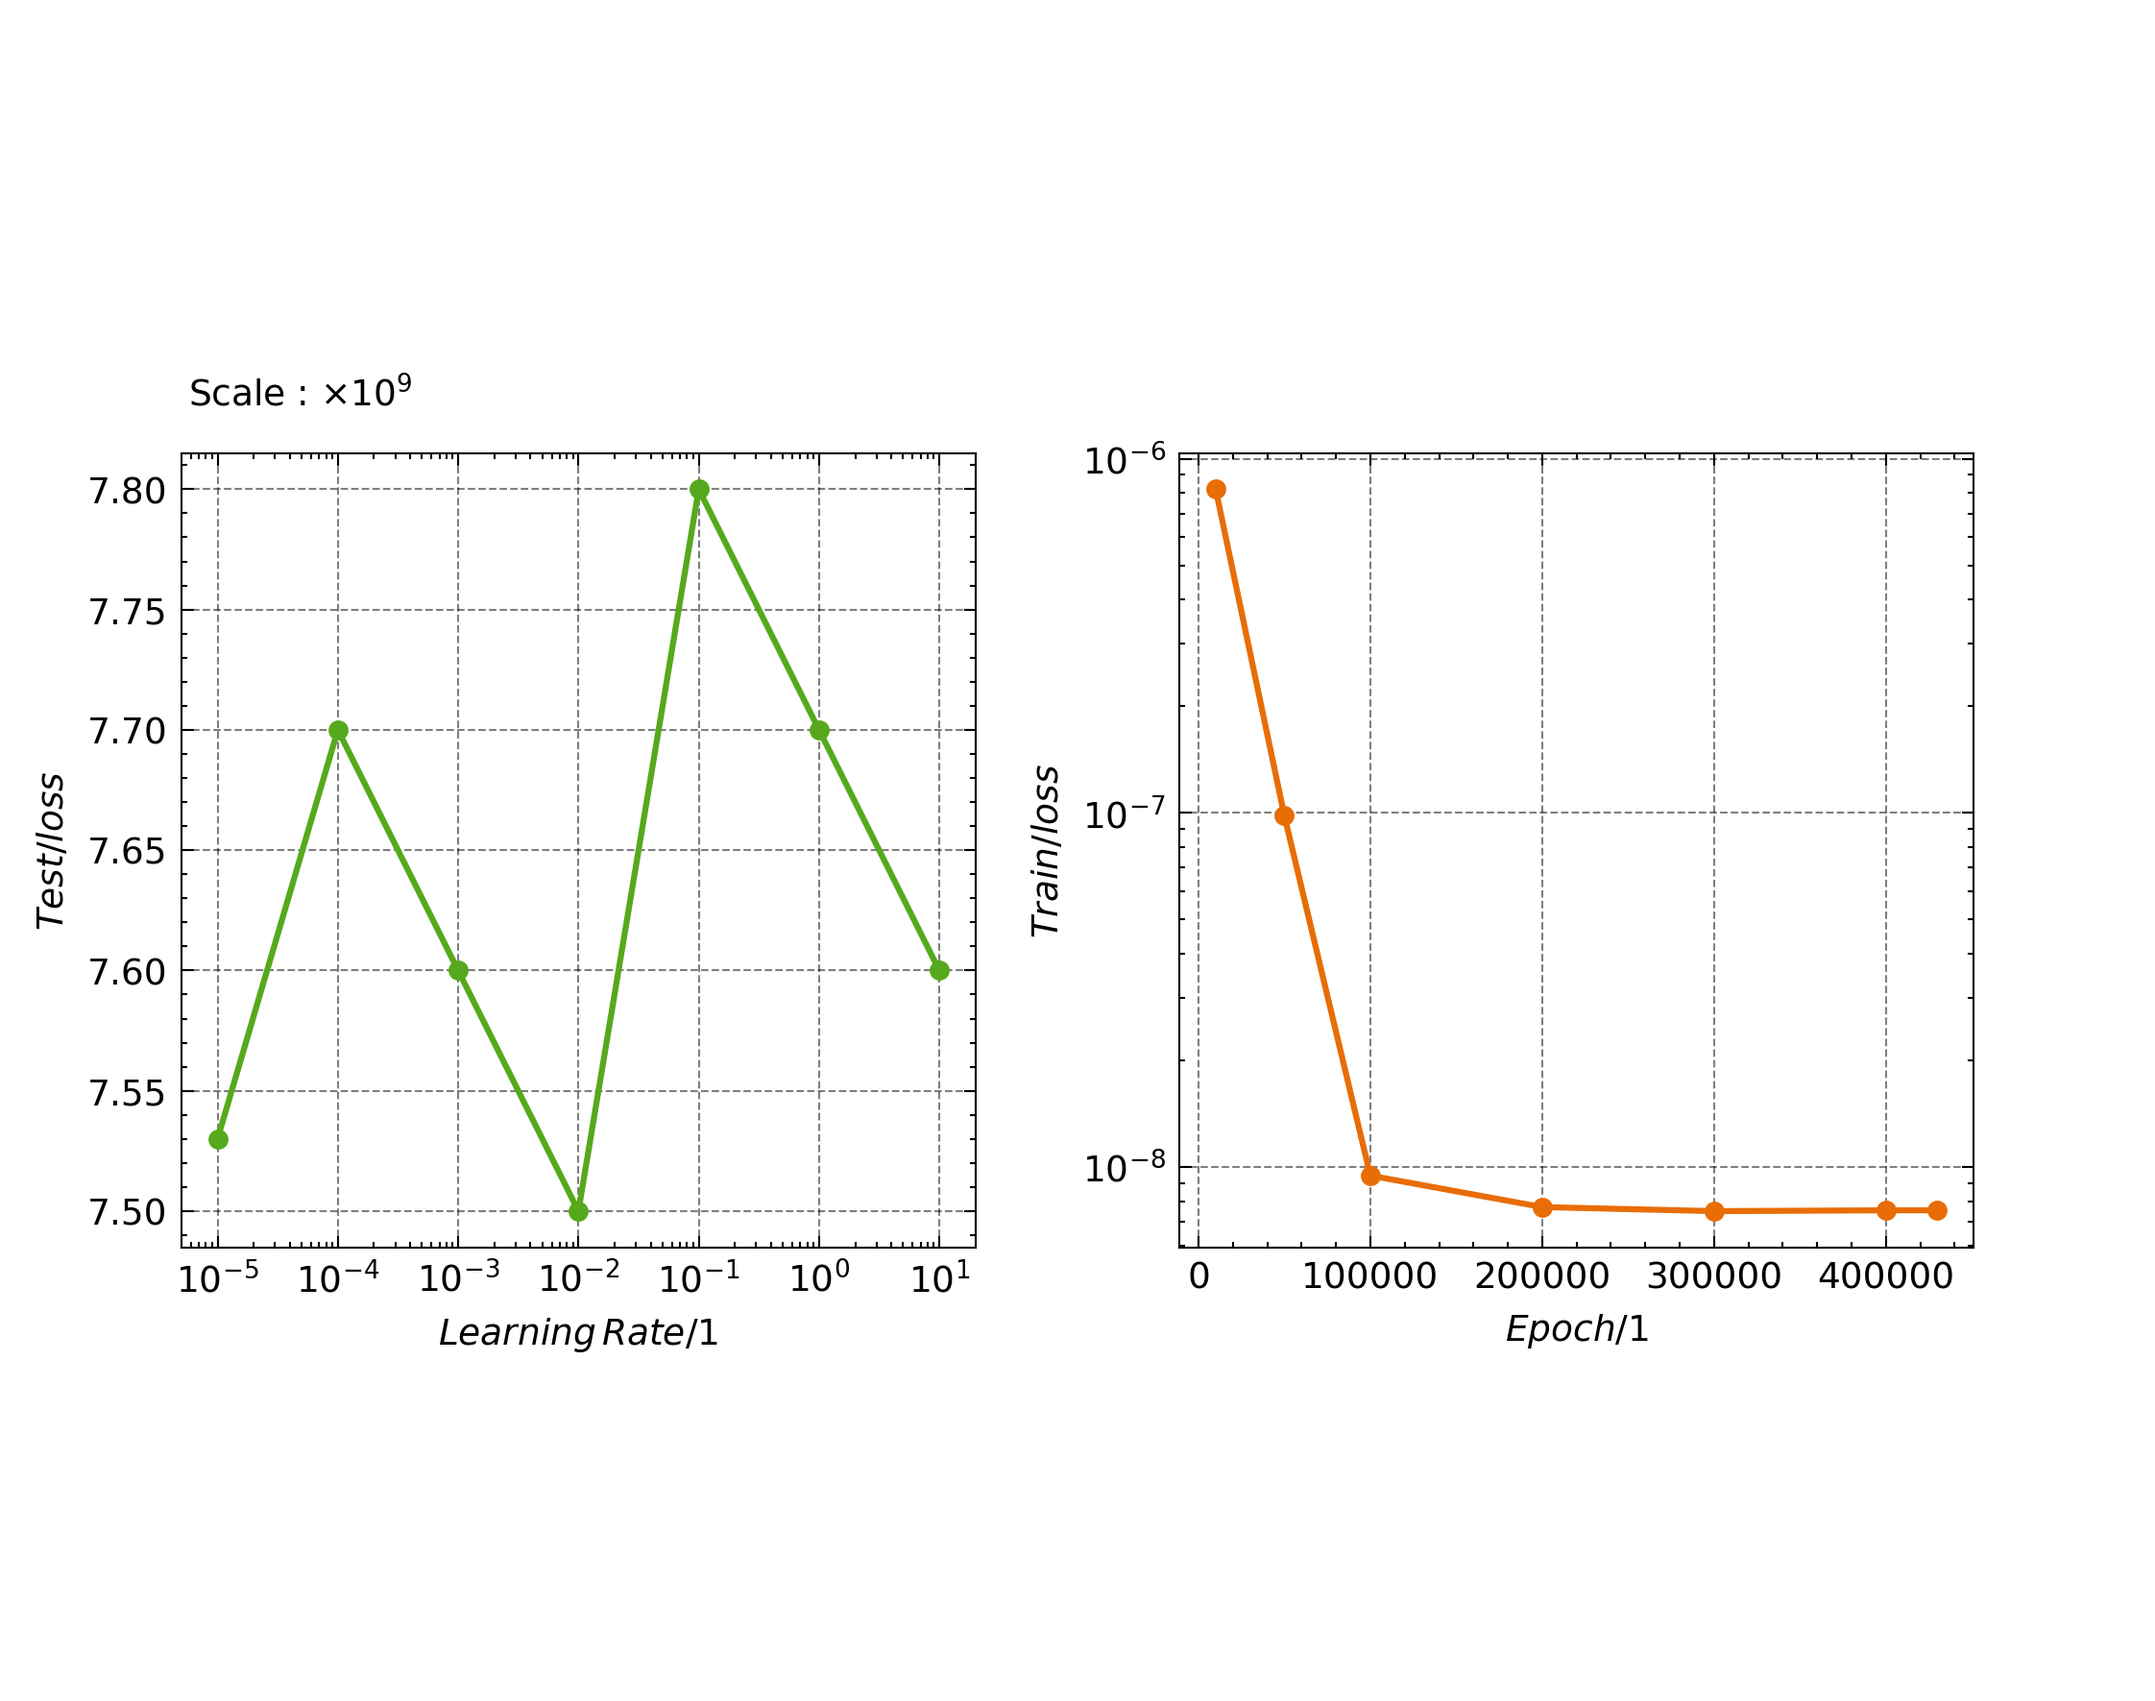
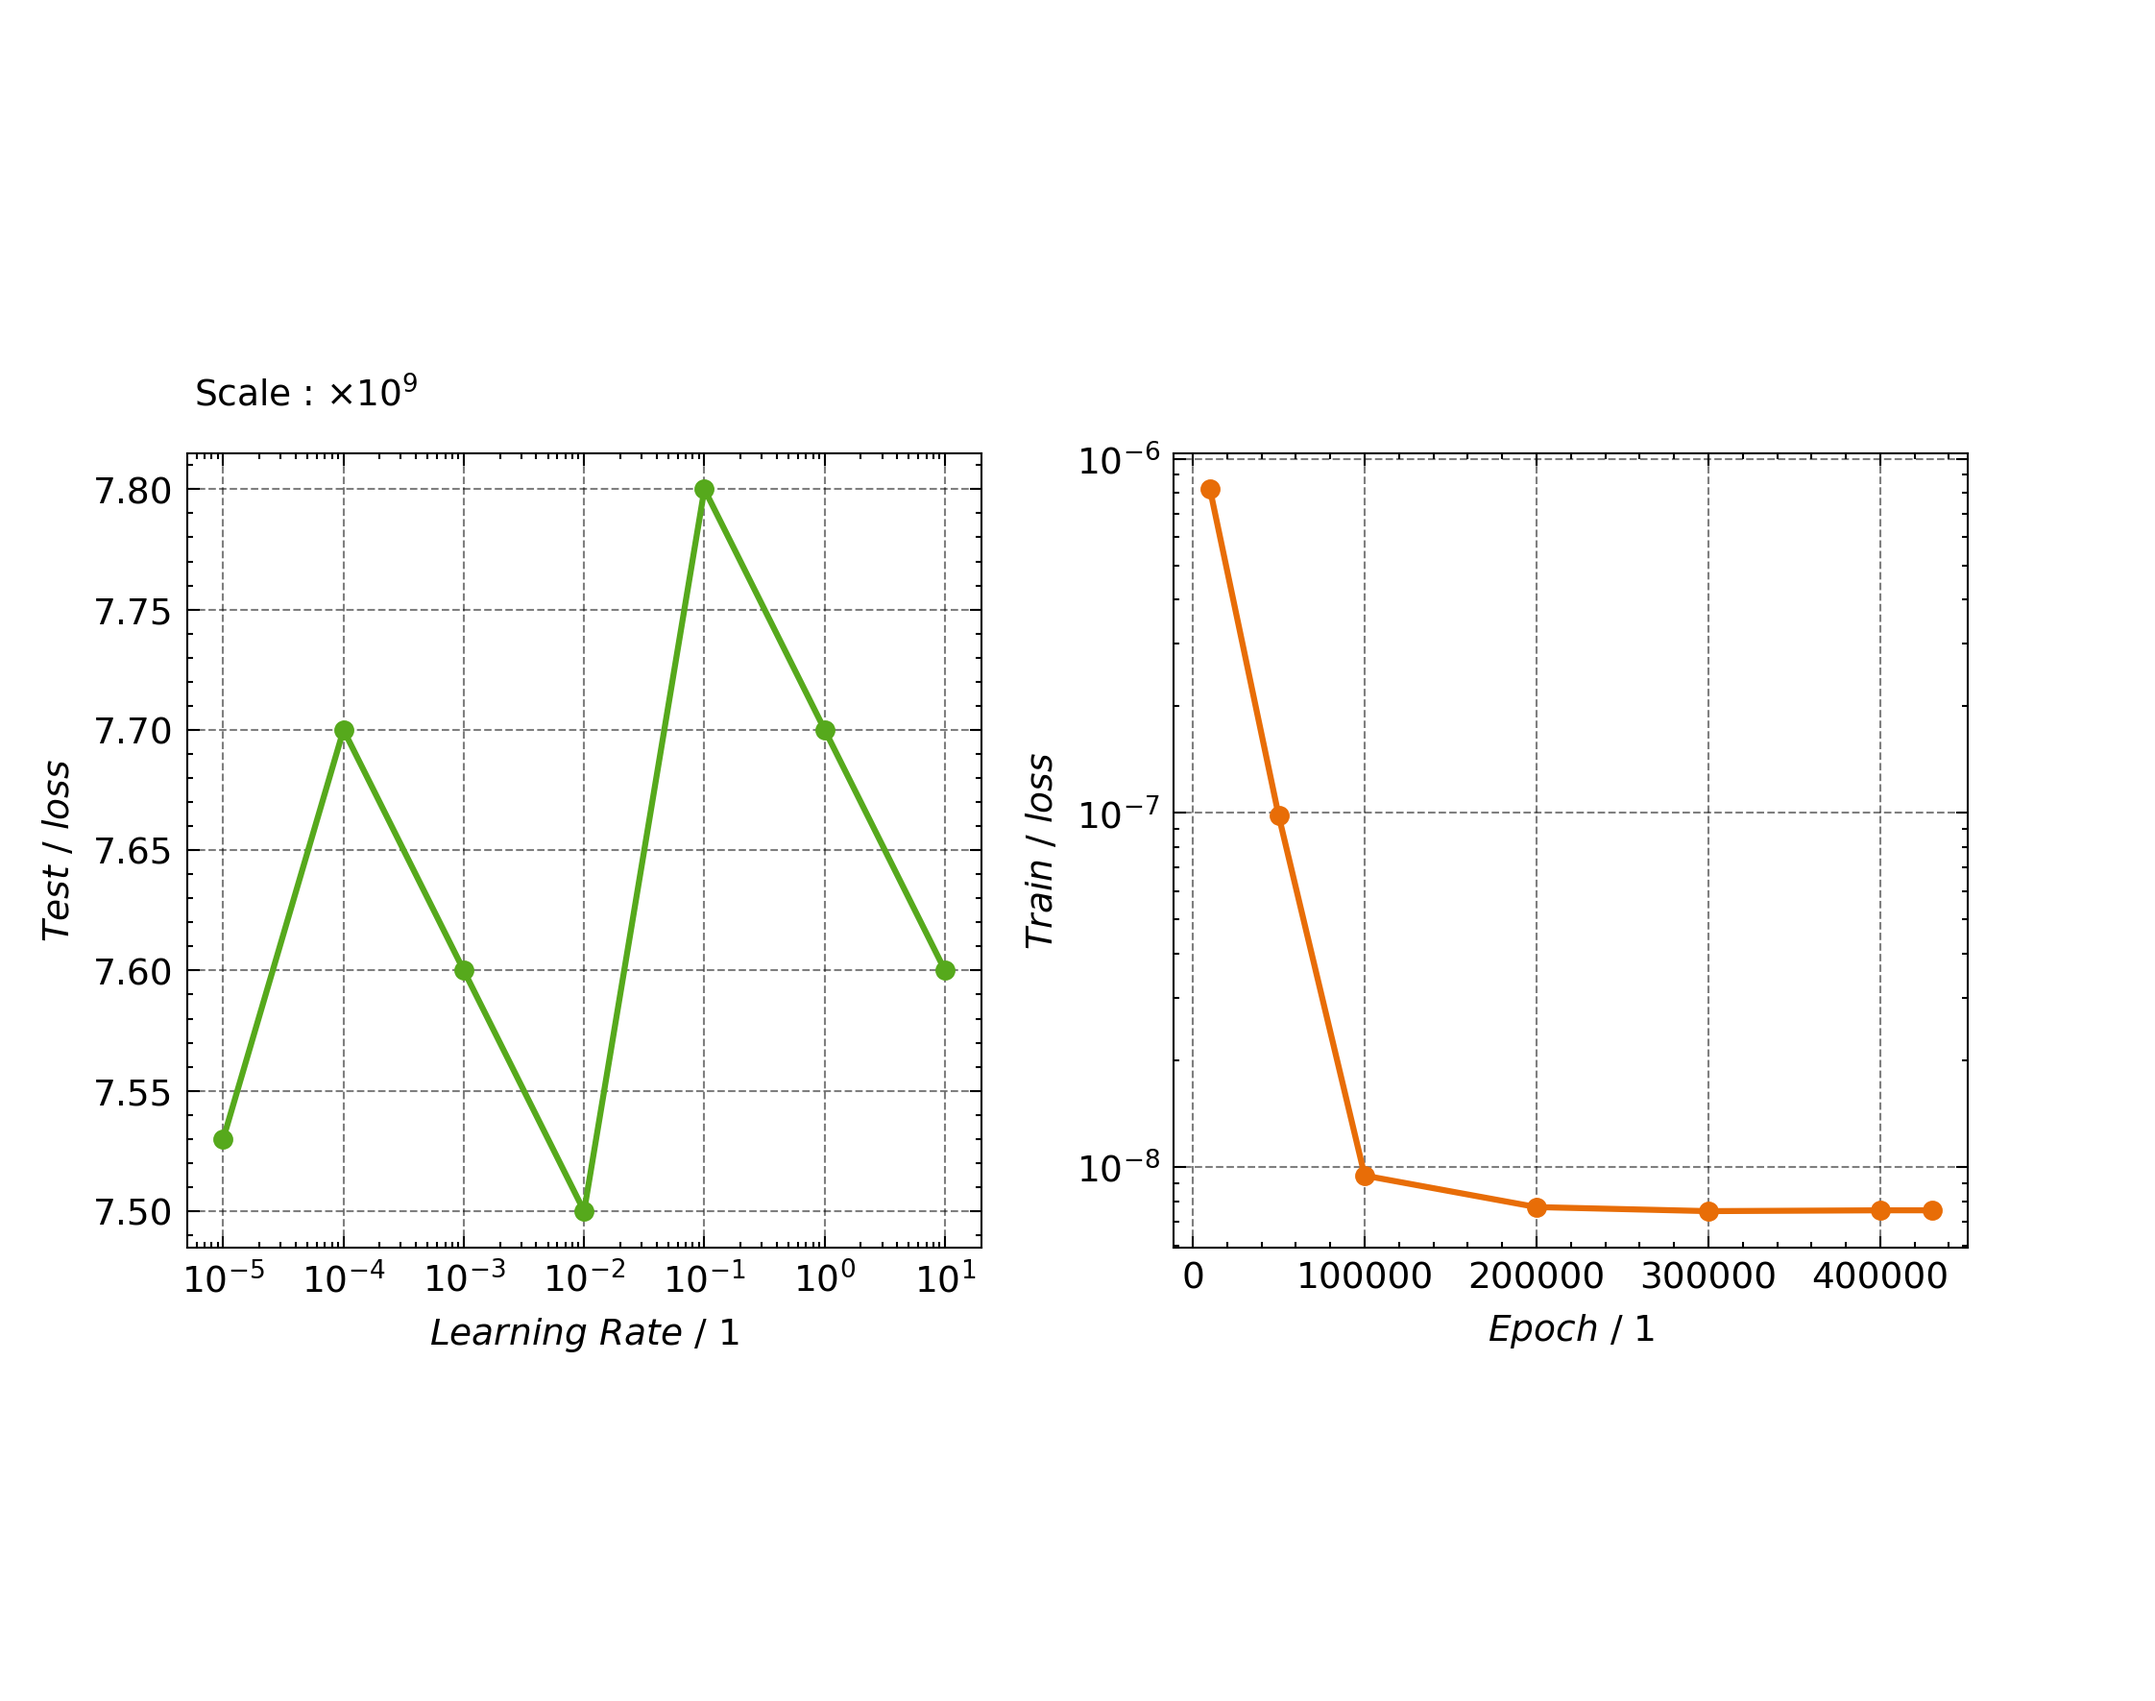
plotting

diff --git a/Plots/Plotting.py b/Plots/Plotting.py
@@ -62,13 +62,13 @@ axs = make_square_subplots(
     fig=fig,
     ax_width=7 * cm2inch,#dimension of the plots
     ax_layout=(1, 2),  
-    h_sep=1.8 * cm2inch,  
+    h_sep=1.7 * cm2inch,  
     v_sep=1 * cm2inch, 
     sharex=False,
     sharey=False,
-    xlabel=["$Learning\,Rate/1$","$Epoch/1$"], 
+    xlabel=["$Learning\, \,Rate\, \,/\, \,1$","$Epoch\, \,/\, \,1$"], 
     ylabel=
-        [["$Test/loss$","$Train/loss$"]]
+        [["$Test\, \,/\, \,loss$","$Train\, \,/\, \,loss$"]]
     
 )
 axs[0, 0].text(0.15, 1.05, r'Scale : $\times10^{9}$', 
@@ -99,27 +99,28 @@ plt.show()
 LR_2=[10,1,1e-1,1e-2,1e-3,1e-4,1e-5]
 #error_LR_2=[7.6e-9,7.7e-9,7.8e-9,7.5e-9,7.6e-9,7.7e-9,7.53e-9]
 error_LR_2 = [0.0059862, 0.0059867, 0.0005986, 0.00059863, 0.0006000, 0.000624, 0.00073]
-epoch_2=[500,1000,1500,2000,2500,3000]
-error_epoch_2=[0.0047523,0.00064254,0.00062384,0.00059867,0.00059859,0.00059862]
+epoch_2=[1000,10000,20000,25000,30000,35000]
+#error_epoch_2=[0.00044378,0.00042183,0.00042169,0.00042125,0.00042089,0.00042088]
+error_epoch_2=[4.4378,4.2183,4.2169,4.2125,4.2089,4.2088]
 plt.style.use("ICIWstyle")
 fig = plt.figure( figsize=(Elsevier_Sizes.double_column["in"], 15 * cm2inch))  # Increased figure height for better spacing
 axs = make_square_subplots(
     fig=fig,
     ax_width=7 * cm2inch,#dimension of the plots
     ax_layout=(1, 2),  
-    h_sep=2.1 * cm2inch,  
-    v_sep=1 * cm2inch, 
+    h_sep=1.7 * cm2inch,  
+    v_sep=0.1 * cm2inch, 
     sharex=False,
     sharey=False,
-    xlabel=["$Learning\, \, Rate \, / \, 1$","$Epoch/1$"], 
+    xlabel=["$Learning\, \, Rate \, / \, 1$","$Epoch\, \,/\, \,1$"], 
     ylabel=
-        [["$Test/loss$","$Test/loss$"]]
+        [["$Test\, \,/\, \,loss$","$Test\, \,/\, \,loss$"]]
     
 )
-#axs[0, 0].text(0.15, 1.05, r'Scale : $\times10^{9}$', 
-               #transform=axs[0, 0].transAxes,
-               #horizontalalignment='center',
-               #verticalalignment='bottom')
+axs[0, 0].text(1.4, 1.05, r'Scale : $\times10^{4}$', 
+               transform=axs[0, 0].transAxes,
+               horizontalalignment='center',
+               verticalalignment='bottom')
 
 axs[0, 1].plot(
     epoch_2,
@@ -127,7 +128,7 @@ axs[0, 1].plot(
     color=ICIWcolors.FLAME,
 )
 
-axs[0, 1].set_yscale('log')
+#axs[0, 1].set_yscale('log')
 #axs[0, 1].set_xscale('log')
 axs[0, 0].plot(LR_2, error_LR_2,'o-',color=ICIWcolors.KELLYGREEN)
 #axs[0, 1].set_yscale('log')
@@ -143,26 +144,26 @@ LR_2=[10,1,1e-1,1e-2,1e-3,1e-4,1e-5]
 #error_LR_2=[7.6e-9,7.7e-9,7.8e-9,7.5e-9,7.6e-9,7.7e-9,7.53e-9]
 error_LR_2 = [0.0059862, 0.0059867, 0.0005986, 0.00059863, 0.0006000, 0.000624, 0.00073]
 epoch_3=[1000,3000,4000,5000,6000,7000,8000,8500]
-error_epoch_3=[0.00063015,0.00057675,0.0005715,0.00056763,0.00056514,0.000563666,0.00056319,0.00056319]
+error_epoch_3=[6.3015,5.7675,5.715,5.6763,5.6514,5.563666,5.56319,5.56319]
 plt.style.use("ICIWstyle")
 fig = plt.figure( figsize=(Elsevier_Sizes.double_column["in"], 15 * cm2inch))  # Increased figure height for better spacing
 axs = make_square_subplots(
     fig=fig,
     ax_width=7 * cm2inch,#dimension of the plots
     ax_layout=(1, 2),  
-    h_sep=2.1 * cm2inch,  
+    h_sep=2.2 * cm2inch,  
     v_sep=1 * cm2inch, 
     sharex=False,
     sharey=False,
-    xlabel=["$Learning\, \, Rate \, / \, 1$","$Epoch/1$"], 
+    xlabel=["$Learning\, \, Rate \, / \, 1$","$Epoch\, \,/\, \,1$"], 
     ylabel=
-        [["$Test/loss$","$Test/loss$"]]
+        [["$Test\, \,/\, \,loss$","$Test\, \,/\, \,loss$"]]
     
 )
-#axs[0, 0].text(0.15, 1.05, r'Scale : $\times10^{9}$', 
-               #transform=axs[0, 0].transAxes,
-               #horizontalalignment='center',
-               #verticalalignment='bottom')
+axs[0, 0].text(1.5, 1.05, r'Scale : $\times10^{4}$', 
+               transform=axs[0, 0].transAxes,
+               horizontalalignment='center',
+               verticalalignment='bottom')
 
 axs[0, 1].plot(
     epoch_3,
@@ -170,7 +171,7 @@ axs[0, 1].plot(
     color=ICIWcolors.FLAME,
 )
 
-axs[0, 1].set_yscale('log')
+#axs[0, 1].set_yscale('log')
 #axs[0, 1].set_xscale('log')
 axs[0, 0].plot(LR_2, error_LR_2,'o-',color=ICIWcolors.KELLYGREEN)
 #axs[0, 1].set_yscale('log')
@@ -179,5 +180,5 @@ axs[0, 0].set_yscale('log')
 axs[0, 0].set_xticks(LR)
 #axs[0, 0].set_xticklabels([r'$10^{%d}$' % int(np.log10(x)) if x != 1 else '1' for x in LR])
 #axs[0, 0].set_xlim(min(LR) * 0.5, max(LR) * 2)
-plt.savefig(os.path.join(save_dir, f"2nd_hypo_exp.png"), dpi=300)
+plt.savefig(os.path.join(save_dir, f"2nd_hypo_exp_n.png"), dpi=300)
 plt.show()

diff --git a/Experiments/Preliminary/2_nd_Layer_exp/0001/H_085/Convolution_script_exp_085.py b/Experiments/Preliminary/2_nd_Layer_exp/0001/H_085/Convolution_script_exp_085.py
@@ -289,7 +289,7 @@ dl_2 = DataLoader(ds_2, batch_size=1, shuffle=True)
 
 trainer = pl.Trainer(
     accelerator="auto",
-    max_epochs=15000,
+    max_epochs=30000,
     logger=wandb_logger,
     deterministic=True,
 )
@@ -443,6 +443,6 @@ axs[0, 0].set_xlim((0, 20))
 axs[0, 1].set_xlim((0, 10)) 
 axs[0, 0].legend(loc="best")
 axs[0, 1].legend(loc="best")
-plt.savefig(os.path.join(base_dir, f"Exp_2ndLAyer_085_rtd2.png"), dpi=300)
+plt.savefig(os.path.join(base_dir, f"Exp_2ndLAyer_085_rtd2_29_12.png"), dpi=300)
 plt.show()
 
